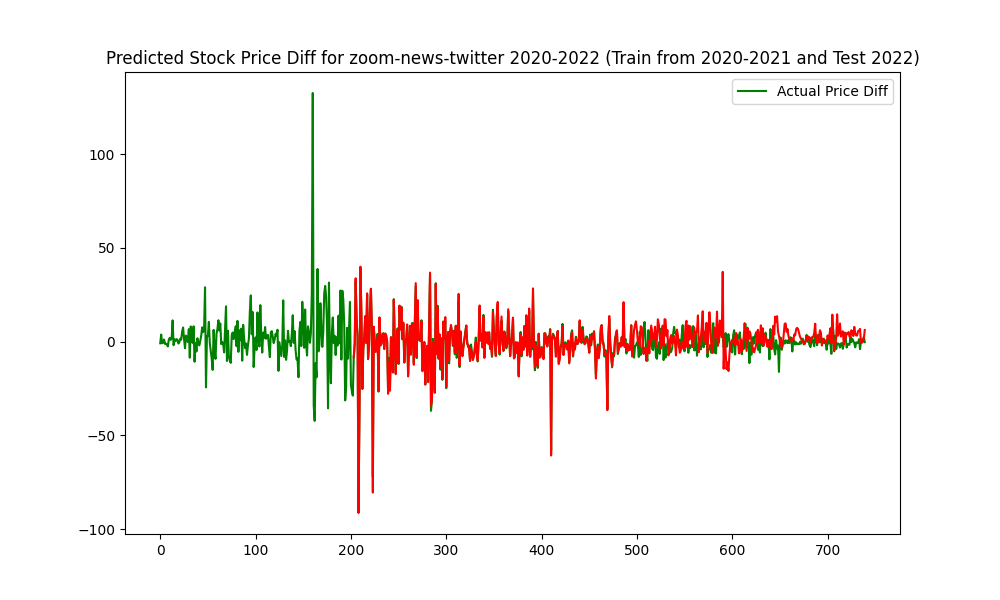
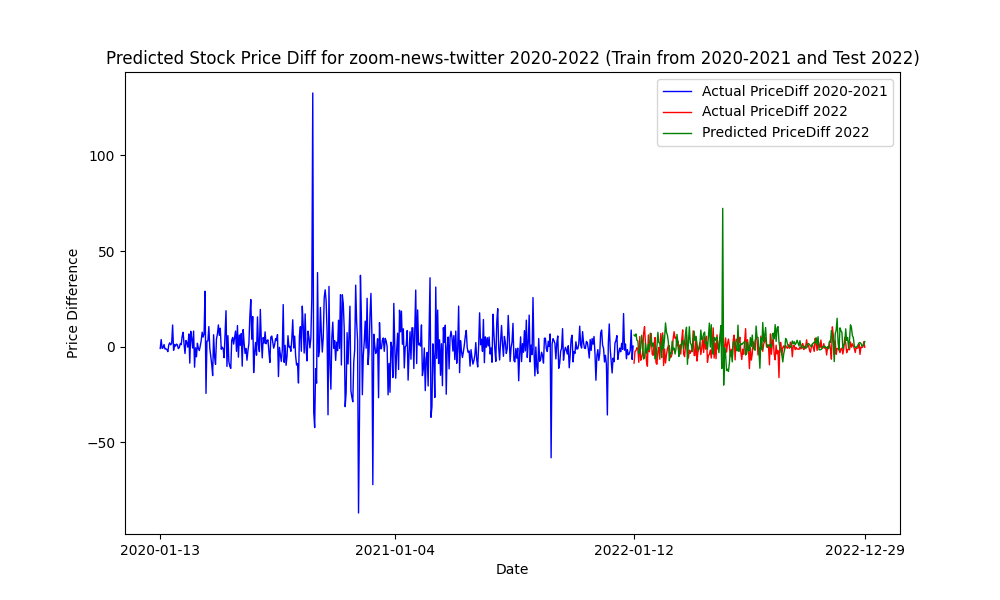
Made changes to chart

diff --git a/Code/train-model/train.py b/Code/train-model/train.py
@@ -73,17 +73,16 @@ def load_and_train_model(X_train,y_train,X_test,y_test):
     return model
 
 def get_predictions(model,X_train,X_test,y_test,train_df,test_df,run_name):
-    # Get predictions for train and test dataset
-    predictions_train = model.predict(X_train)
-    predictions_test = model.predict(X_test)
-
-    predicted_price_diff = np.concatenate((predictions_train,predictions_test),axis=0)
+    # Add predictions to final dataset
+    # df = pd.concat([train_df,test_df],ignore_index=True)
+    predicted_price_diff = model.predict(X_test)
+    test_df['Predicted Price Diff'] = predicted_price_diff
 
     # Evaluate the model
-    mse = mean_squared_error(y_test, predictions_test)
-    mae = mean_absolute_error(y_test, predictions_test)
+    mse = mean_squared_error(y_test, predicted_price_diff)
+    mae = mean_absolute_error(y_test, predicted_price_diff)
     rmse = np.sqrt(mse)
-    r2 = r2_score(y_test, predictions_test)
+    r2 = r2_score(y_test, predicted_price_diff)
     print(f'Mean Squared Error: {mse:.2f}')
     print(f'Mean Absolute Error: {mae:.2f}')
     print(f'Root Mean Squared Error: {rmse:.2f}')
@@ -96,16 +95,34 @@ def get_predictions(model,X_train,X_test,y_test,train_df,test_df,run_name):
     },index=[0])
     evaluation_df.to_csv('evaluation_metrics/metrics-'+run_name+'.csv')
 
-    # Add predictions to final dataset
-    df = pd.concat([train_df,test_df],ignore_index=True)
-    df['Predicted Price Diff'] = predicted_price_diff
-    return df
+    return test_df
 
-def plot_graph(df,test_df,run_name):
-    fig, ax = plt.subplots(figsize=(10, 6))
-    df.plot(y='Close',color='green',ax=ax,label='Actual Price Diff')
-    df.loc[test_df['Date'][0]:,'Predicted Price Diff'].plot(ax=ax, color='red', label='Predicted Price Diff for 2022')
-    ax.set_title('Predicted Stock Price Diff for '+run_name+' 2020-2022 (Train from 2020-2021 and Test 2022)')
+def plot_graph(train_df,test_df,run_name):
+    # Select rows where 'Date' starts with '2021'
+    date_mask = train_df['Date'].str.startswith('2021')
+    date_2021_df = train_df[date_mask]
+
+    # Get the first row of the resulting DataFrame
+    first_date_2021 = date_2021_df.iloc[0]['Date']
+
+    # Plot the train_df data
+    plt.figure(figsize=(10,6))
+    plt.plot(train_df['Date'], train_df['Close'], color='blue', label='Actual PriceDiff 2020-2021',linewidth=1)
+
+    # Plot the test_df data
+    plt.plot(test_df['Date'], test_df['Close'], color='red', label='Actual PriceDiff 2022',linewidth=1)
+    plt.plot(test_df['Date'], test_df['Predicted Price Diff'], color='green', label='Predicted PriceDiff 2022',linewidth=1)
+    plt.xticks([train_df.iloc[0]['Date'],first_date_2021, test_df.iloc[0]['Date'],test_df.iloc[-1]['Date']])
+
+    # Add title, x-label, and y-label
+    plt.title('Predicted Stock Price Diff for '+run_name+' 2020-2022 (Train from 2020-2021 and Test 2022)')
+    plt.xlabel('Date')
+    plt.ylabel('Price Difference')
+
+    # Add legend
+    plt.legend()
+
+    # Save plot
     plt.savefig('charts/'+run_name+'.png')
 
 
@@ -135,9 +152,9 @@ def main():
     model = load_and_train_model(X_train=X_train,y_train=y_train,X_test=X_test,y_test=y_test)
 
     # Make predictions and evaluation and obtain the final dataframe
-    final_df = get_predictions(model=model,X_train=X_train,X_test=X_test,y_test=y_test,train_df=train_df,test_df=test_df,run_name=args.wandb_run_name)
+    test_df = get_predictions(model=model,X_train=X_train,X_test=X_test,y_test=y_test,train_df=train_df,test_df=test_df,run_name=args.wandb_run_name)
 
     # Plot the graph for predictions on 2022 stock price diff values
-    plot_graph(df=final_df,test_df=test_df,run_name=args.wandb_run_name)
+    plot_graph(train_df = train_df,test_df=test_df,run_name=args.wandb_run_name)
 
 main()
